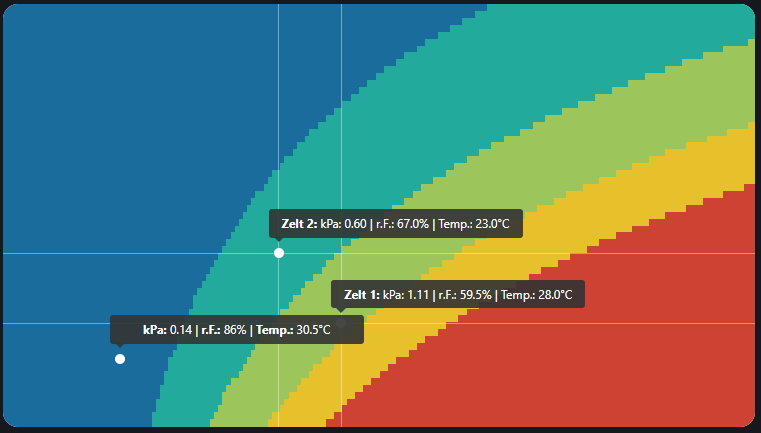
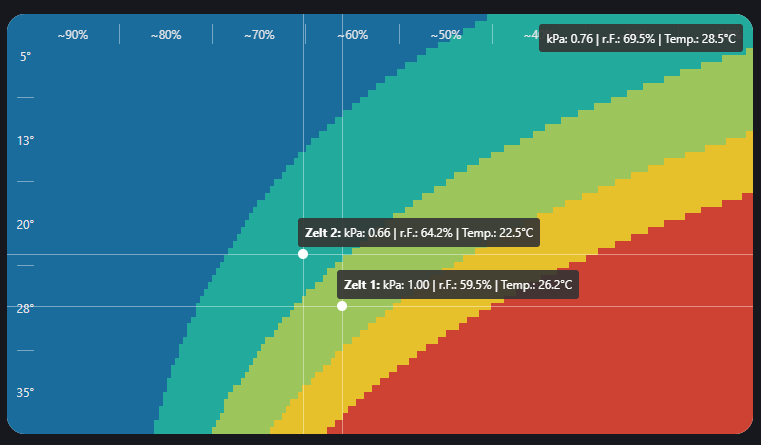
- Added Axes - Added highlight hover to bring tooltip into foreground - some bugfixes - move parts from javascript directly to css class - Updated Readme - Updated image

diff --git a/README.md b/README.md
@@ -56,6 +56,8 @@ max_humidity: 100
 steps_humidity: 1
 steps_temperature: 0.5
 is_bar_view: true
+enable_tooltip: true
+enable_axes: true
 sensors:
   - temperature: sensor.temperature_2
     humidity: sensor.humidity_2
@@ -84,21 +86,22 @@ vpd_phases:
 ## Configuration Parameters
 
 
-| Name               | Type         | Required     | Default                 | Description                                                                                   |
-| ------------------ | ------------ | ------------ | ----------------------- | --------------------------------------------------------------------------------------------- |
-| type               | string       | **required** |                         | Must be `custom:ha-vpd-chart`.                                                                |
-| air_text           | string       | optional     | `Air`                   | The text used for temperature readings. Default is "Air".                                     |
-| rh_text            | string       | optional     | `RH`                    | The text used for humidity readings. Default is "RH".                                         |
-| min_temperature    | number       | optional     | `5`                     | Minimum temperature in the chart. Default is 5.                                               |
-| min_humidity       | number       | optional     | `10`                    | Minimum humidity in the chart. Default is 10.                                                 |
-| max_temperature    | number       | optional     | `35`                    | Maximum temperature in the chart. Default is 35.                                              |
-| max_humidity       | number       | optional     | `90`                    | Maximum humidity in the chart. Default is 90.                                                 |
-| steps_temperature  | number       | optional     | `0.5`                   | Temperature resolution in the chart. Default is 0.5.                                          |
-| steps_humidity     | number       | optional     | `1`                     | Humidity resolution in the chart. Default is 1.                                               |
-| sensors            | list         | **required** |                         | A list of sensors with their temperature and humidity entity IDs, and an optional name for display. |
-| vpd_phases         | list         | optional     | See description         | A list of VPD phases and their classes for visual representation. See below for defaults.     |
-| enable_tooltip     | boolean      | optional     | `true`                  | Tooltip enabled by default.                                                                   |
-| is_bar_view        | boolean      | optional     | `false`                 | Second view of this chart for fast information of sensors                                     |
+| Name               | Type         | Required     | Default         | Description                                                                                         |
+| ------------------ | ------------ | ------------ |-----------------|-----------------------------------------------------------------------------------------------------|
+| type               | string       | **required** |                 | Must be `custom:ha-vpd-chart`.                                                                      |
+| air_text           | string       | optional     | `Air`           | The text used for temperature readings. Default is "Air".                                           |
+| rh_text            | string       | optional     | `RH`            | The text used for humidity readings. Default is "RH".                                               |
+| min_temperature    | number       | optional     | `5`             | Minimum temperature in the chart. Default is 5.                                                     |
+| min_humidity       | number       | optional     | `10`            | Minimum humidity in the chart. Default is 10.                                                       |
+| max_temperature    | number       | optional     | `35`            | Maximum temperature in the chart. Default is 35.                                                    |
+| max_humidity       | number       | optional     | `90`            | Maximum humidity in the chart. Default is 90.                                                       |
+| steps_temperature  | number       | optional     | `0.5`           | Temperature resolution in the chart. Default is 0.5.                                                |
+| steps_humidity     | number       | optional     | `1`             | Humidity resolution in the chart. Default is 1.                                                     |
+| sensors            | list         | **required** |                 | A list of sensors with their temperature and humidity entity IDs, and an optional name for display. |
+| vpd_phases         | list         | optional     | See description | A list of VPD phases and their classes for visual representation. See below for defaults.           |
+| enable_tooltip     | boolean      | optional     | `true`          | Tooltip enabled by default.                                                                         |
+| is_bar_view        | boolean      | optional     | `false`         | Second view of this chart for fast information of sensors                                           |
+| enable_axes        | boolean      | optional     | `true`          | Enable Axes on the Chart                                                                            |
 
 **Default `vpd_phases` Configuration:**
 - `under-transpiration`: VPD < 0.4
@@ -168,6 +171,8 @@ max_humidity: 100
 steps_humidity: 1
 steps_temperature: 0.5
 is_bar_view: true
+enable_tooltip: true
+enable_axes: true
 sensors:
    - temperature: sensor.temperature_2
      humidity: sensor.humidity_2
@@ -209,7 +214,8 @@ vpd_phases:
 | sensors            | list         | **erforderlich** |                      | Eine Liste von Sensoren mit ihren Temperatur- und Feuchtigkeits-Entity-IDs und einem optionalen Namen zur Anzeige. |
 | vpd_phases         | list         | optional     | Siehe Beschreibung    | Eine Liste von VPD-Phasen und ihren Klassen zur visuellen Darstellung. Siehe unten für Standards. |
 | enable_tooltip     | boolean      | optional     | `true`                | Tooltip ist standardmäßig aktiviert.                                                           |
-
+| is_bar_view        | boolean      | optional     | `false`               | Zweite Ansicht dieses Diagramms für schnelle Informationen zu Sensoren                           |
+| enable_axes        | boolean      | optional     | `true`                | Aktivieren Sie die Achsen im Diagramm                                                           |
 **Standardkonfiguration der `vpd_phases`:**
 - `under-transpiration`: VPD < 0,4
 - `early-veg`: 0,4 ≤ VPD < 0,8
